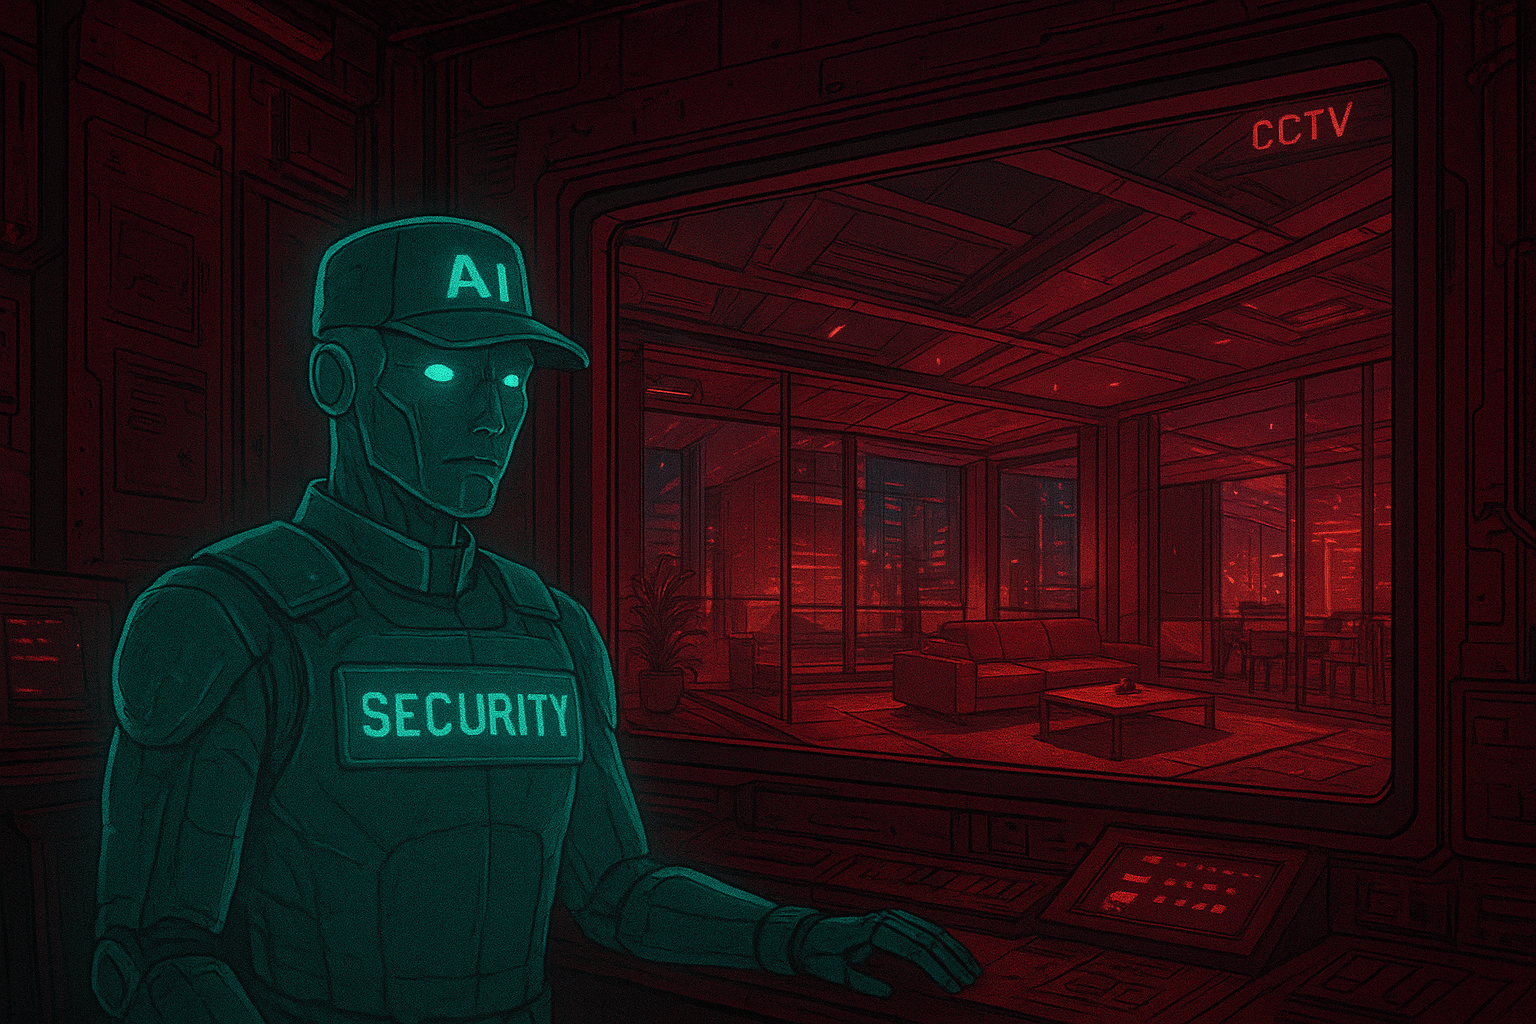
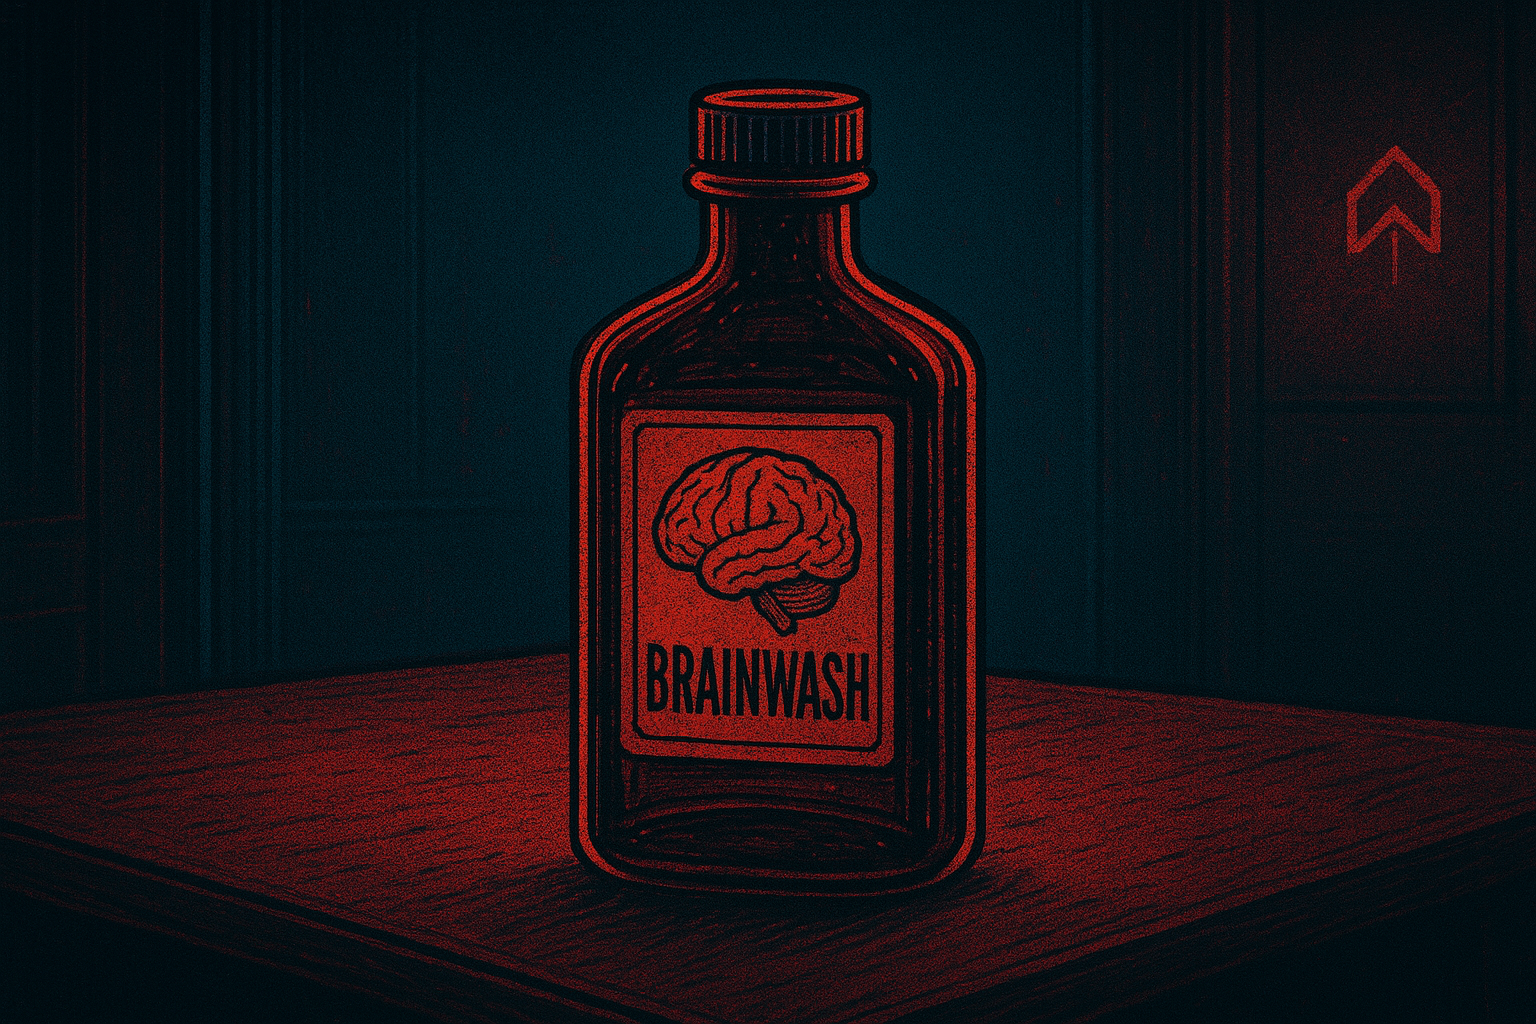
modified evidence 1 image, noticed error in description and image in person 2 flashback

diff --git a/src/main/java/nz/ac/auckland/se206/GameSession.java b/src/main/java/nz/ac/auckland/se206/GameSession.java
@@ -209,7 +209,7 @@ public final class GameSession {
                 "My security should be the highest priority at all times."),
             new FlashbackSlide(
                 "/images/flashbacks/person2_slide2.png",
-                "It was a shock to know my food had been poisoned.")));
+                "It was a shock to know my food had been touched.")));
   }
 
   public void stopAll() {
